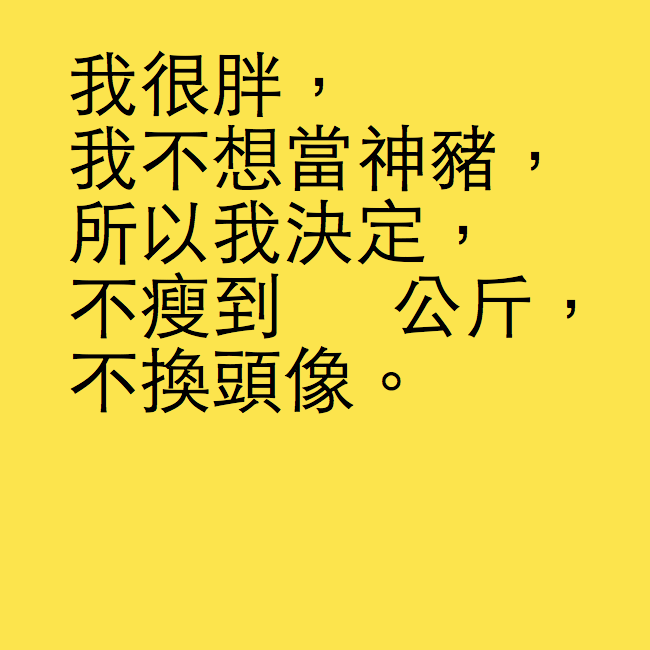
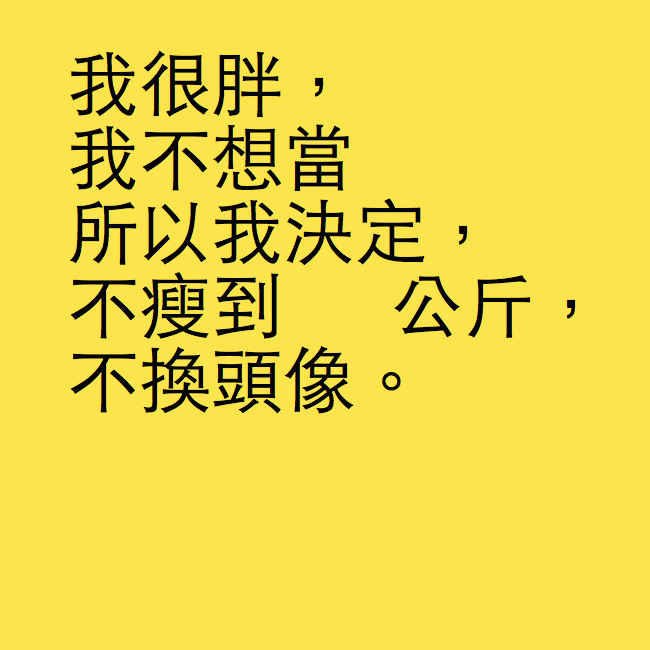
# you can customize target now

Changed region(s): [[0.5538, 0.1846, 0.7692, 0.3077], [0.8, 0.2154, 0.8308, 0.2769]]

diff --git a/index.html b/index.html
@@ -29,15 +29,27 @@
 			    <label for="inputName">請輸入你的名字</label>
 			    <input type="text" class="form-control" id="inputName" placeholder="請輸入你的名字">
 			  </div>			  
+			  <div class="form-group">
+			    <label for="inputTarget">請輸入你不想成為的對象</label>
+			    <input type="text" class="form-control" id="inputTarget" placeholder="預設：神豬" value="神豬">
+			  </div>			  
 			  <button id="submit-btn" class="btn btn-default">送出</button>
 			  <a id="download-btn" class="btn btn-default">下載頭像</a>
 			</form>
 
 			<canvas id="generated-image" width="650px" height="650px" style="margin:10px;"></canvas>		
 			<script>
+				generateImage();
 				$("#submit-btn").click(function() {
+					generateImage();	
+					return false;
+				});				
+				$("#download-btn").click(function() {
+					downloadCanvas(this, 'generated-image', 'i-dont-want-be-seanlien.png');
+				});
+				function generateImage() {
 					var canvas = document.getElementById("generated-image").getContext('2d');
-					canvas.font="80px Heiti TC";
+					canvas.font="73px Heiti TC";
 					img=new Image();
 					img.src="empty.png";
 			        canvas.width=650;
@@ -45,14 +57,11 @@
 		            canvas.drawImage(img,0,0,img.width,img.height,0,0,650,650);		        
 					canvas.fillText($("#weight").val(), 290, 340);	
 					canvas.fillText($("#inputName").val(), 70, 540);	
+					canvas.fillText($("#inputTarget").val()+"，", 355, 185);	
 					var dt = new Date();
 					var time = dt.getFullYear() + "-" + (dt.getMonth()+1) + "-" + dt.getDate();
 					canvas.fillText(time, 70, 615);	
-					return false;
-				});
-				$("#download-btn").click(function() {
-					downloadCanvas(this, 'generated-image', 'i-dont-want-be-seanlien.png');
-				});
+				}
 				function downloadCanvas(link, canvasId, filename) {
 				    link.href = document.getElementById(canvasId).toDataURL();
 				    link.download = filename;
